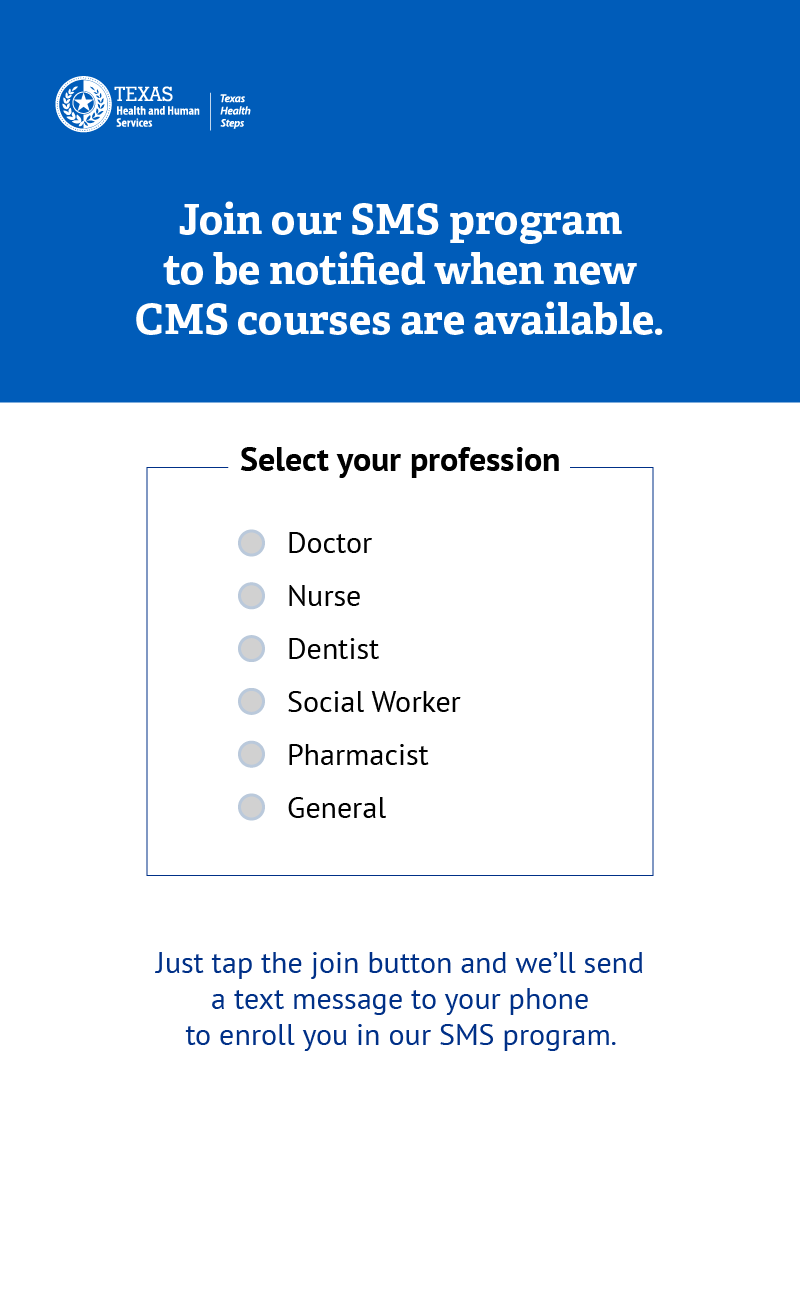
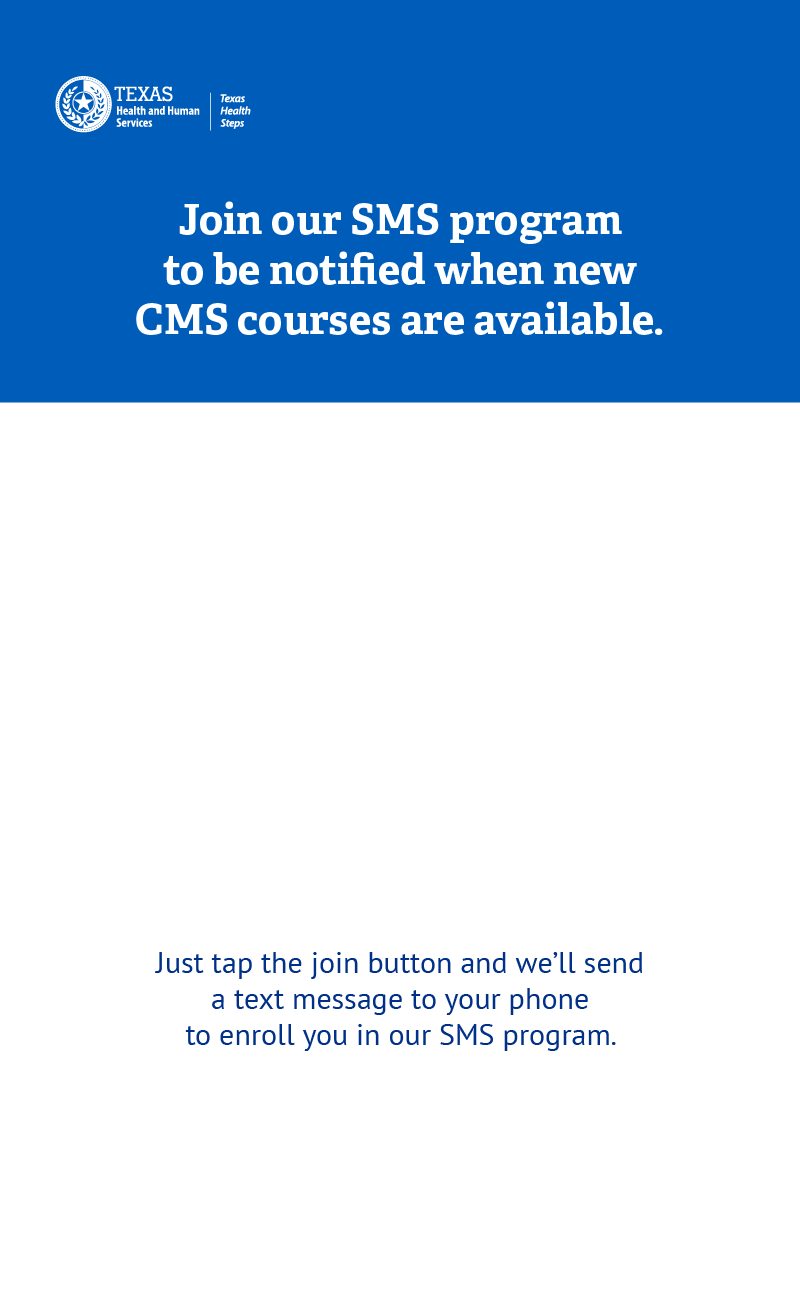
TX Health Steps Edits

Changed region(s): [[0.2812, 0.4, 0.5625, 0.6462], [0.2812, 0.3385, 0.7188, 0.3692], [0.375, 0.6154, 0.4688, 0.6462]]

diff --git a/TXSTEPS_20190614.html b/TXSTEPS_20190614.html
@@ -229,8 +229,8 @@
             border-right: 1px solid #000;
             background-color: rgba(255,200,0, 1.0);
             line-height: 65px;
-            font-size: 35px;
-            font-family: Myriad_Pro_Regular;
+            font-size: 30px;
+            font-family: Myriad_Pro_Bold;
             color: black;
             text-decoration: underline;
             position: relative;
@@ -357,7 +357,7 @@
             </div>
         </div>
 
-        <div id="txsteps_about" class="card fixedcard"><img draggable="false" class="heroImage" src="img/txsteps_about_rev2.png">
+        <div id="txsteps_about" class="card fixedcard"><img draggable="false" class="heroImage" src="img/txsteps_2_about_texas_steps.png">
             <a href="https://www.txhealthsteps.com/293-about-texas-health-steps-online-provider-education" target="_blank">
             <svg style="position:absolute; left:375px; top: 370px; width: 100px; z-index:11;">
                 <polygon points="0,0 70,35 0,70" style="fill: rgba(0,0,255,0)"/>
@@ -372,8 +372,8 @@
             </a>
         </div>
 
-        <div id="txsteps_joinsms" class="card fixedcard"><img draggable="false" class="heroImage" src="img/txsteps_joinsms_rev2.png">
-            <fieldset style="border: 3px groove; border-color: #003087; position: absolute; top: 430px; left:200px; width:400px; font-family: Myriad_Pro_Regular; font-size: 35px; color:#003087">
+        <div id="txsteps_joinsms" class="card fixedcard"><img draggable="false" class="heroImage" src="img/txsteps_2_join_sms.png">
+            <fieldset style="border: 3px groove; border-color: #003087; position: absolute; top: 480px; left:200px; width:400px; font-family: Myriad_Pro_Regular; font-size: 35px; color:#000000">
                 <legend>Select your profession</legend>
 
                 <input type="radio" id="doctor" name="profession" value="doctor" style="height:30px;">
@@ -404,7 +404,7 @@
                 </svg>
 
             <div class="tabcontent" id="txsteps_joinsms_tab" style="display: none;">
-                <img src="img/txsteps_joinsms_opentab.png" style="height: auto; width: 100%;">
+                <img src="img/txsteps_2_privacy_policy.png" style="height: auto; width: 100%;">
                 <a href="https://www.dshs.state.tx.us/privacypractices.aspx" target="_blank">
                     <svg style="position:absolute; left:325px; top: 784px; width: 150px; height: 50px;">
                         <polygon points="0,0 350,0 350,50 0,50" style="fill: rgba(0,0,255,0)"/>
@@ -464,7 +464,7 @@
         let tabOpacity = 1.00;
         activeBgColor.opacity = tabOpacity;
         let inactiveBgColor = d3.hsl(activeBgColor);
-        activeBgColor = d3.hsl(activeBgColor);
+        //activeBgColor = d3.hsl(activeBgColor);
 
         if (openTabName != "") {
             activeBgColor.l *= 0.8;
